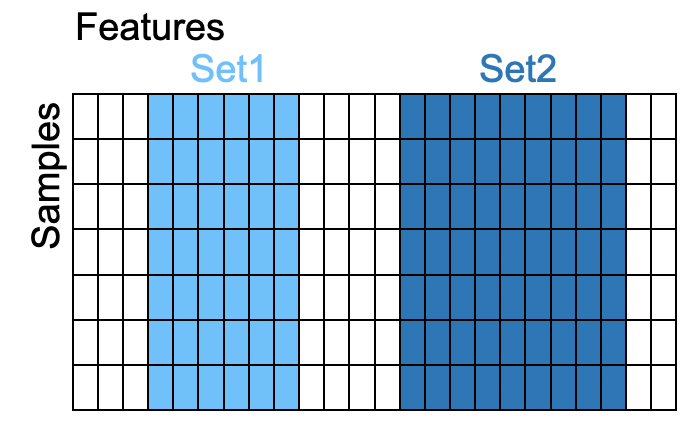
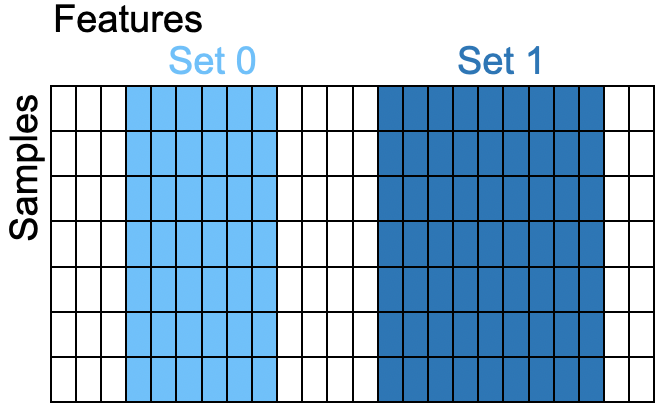
Revise CCA

Changed region(s): [[0.0, 0.0, 0.988, 0.9688]]

diff --git a/notebooks/helpers.py b/notebooks/helpers.py
@@ -4,14 +4,15 @@ import matplotlib.pyplot as plt
 
 
 
-def plot_components(data_transformed, j=0, k=1, tissuelegend=True, legendloc="upper right", 
+def plot_components(data_transformed, j=0, k=1, tissuelegend=True, legendloc="upper right", axislabel="Component", title="",
                     data_with_labels = pd.read_csv("../data/tomato_with_targets.txt", index_col=0), 
                     tissue_dict = {'floral': 'gold', 'leaf': 'chartreuse', 'root': 'gray', 'sdling': 'mediumseagreen', 'stem': 'darkgreen', 'veg': 'purple'}, 
                     species_condition_dict = {'penn.Sun': 's', 'penn.Sh': 'd', 'M82.Sun': '^', 'M82.Sh': 'v'}):
     for i in range(0,data_transformed.shape[0]):
         plt.scatter(data_transformed[i,j], data_transformed[i,k], marker=species_condition_dict['.'.join([data_with_labels.iloc[i]['species'], data_with_labels.iloc[i]['position']])], c=tissue_dict[data_with_labels.iloc[i]['tissue']])
-    plt.xlabel("Component {}".format(j)) 
-    plt.ylabel("Component {}".format(k))
+    plt.xlabel("{0} {1}".format(axislabel, j))  
+    plt.ylabel("{0} {1}".format(axislabel, k))
+    plt.suptitle("{}".format(title))
     if tissuelegend:
         plt.legend(tissue_dict, loc=legendloc)
     else:
